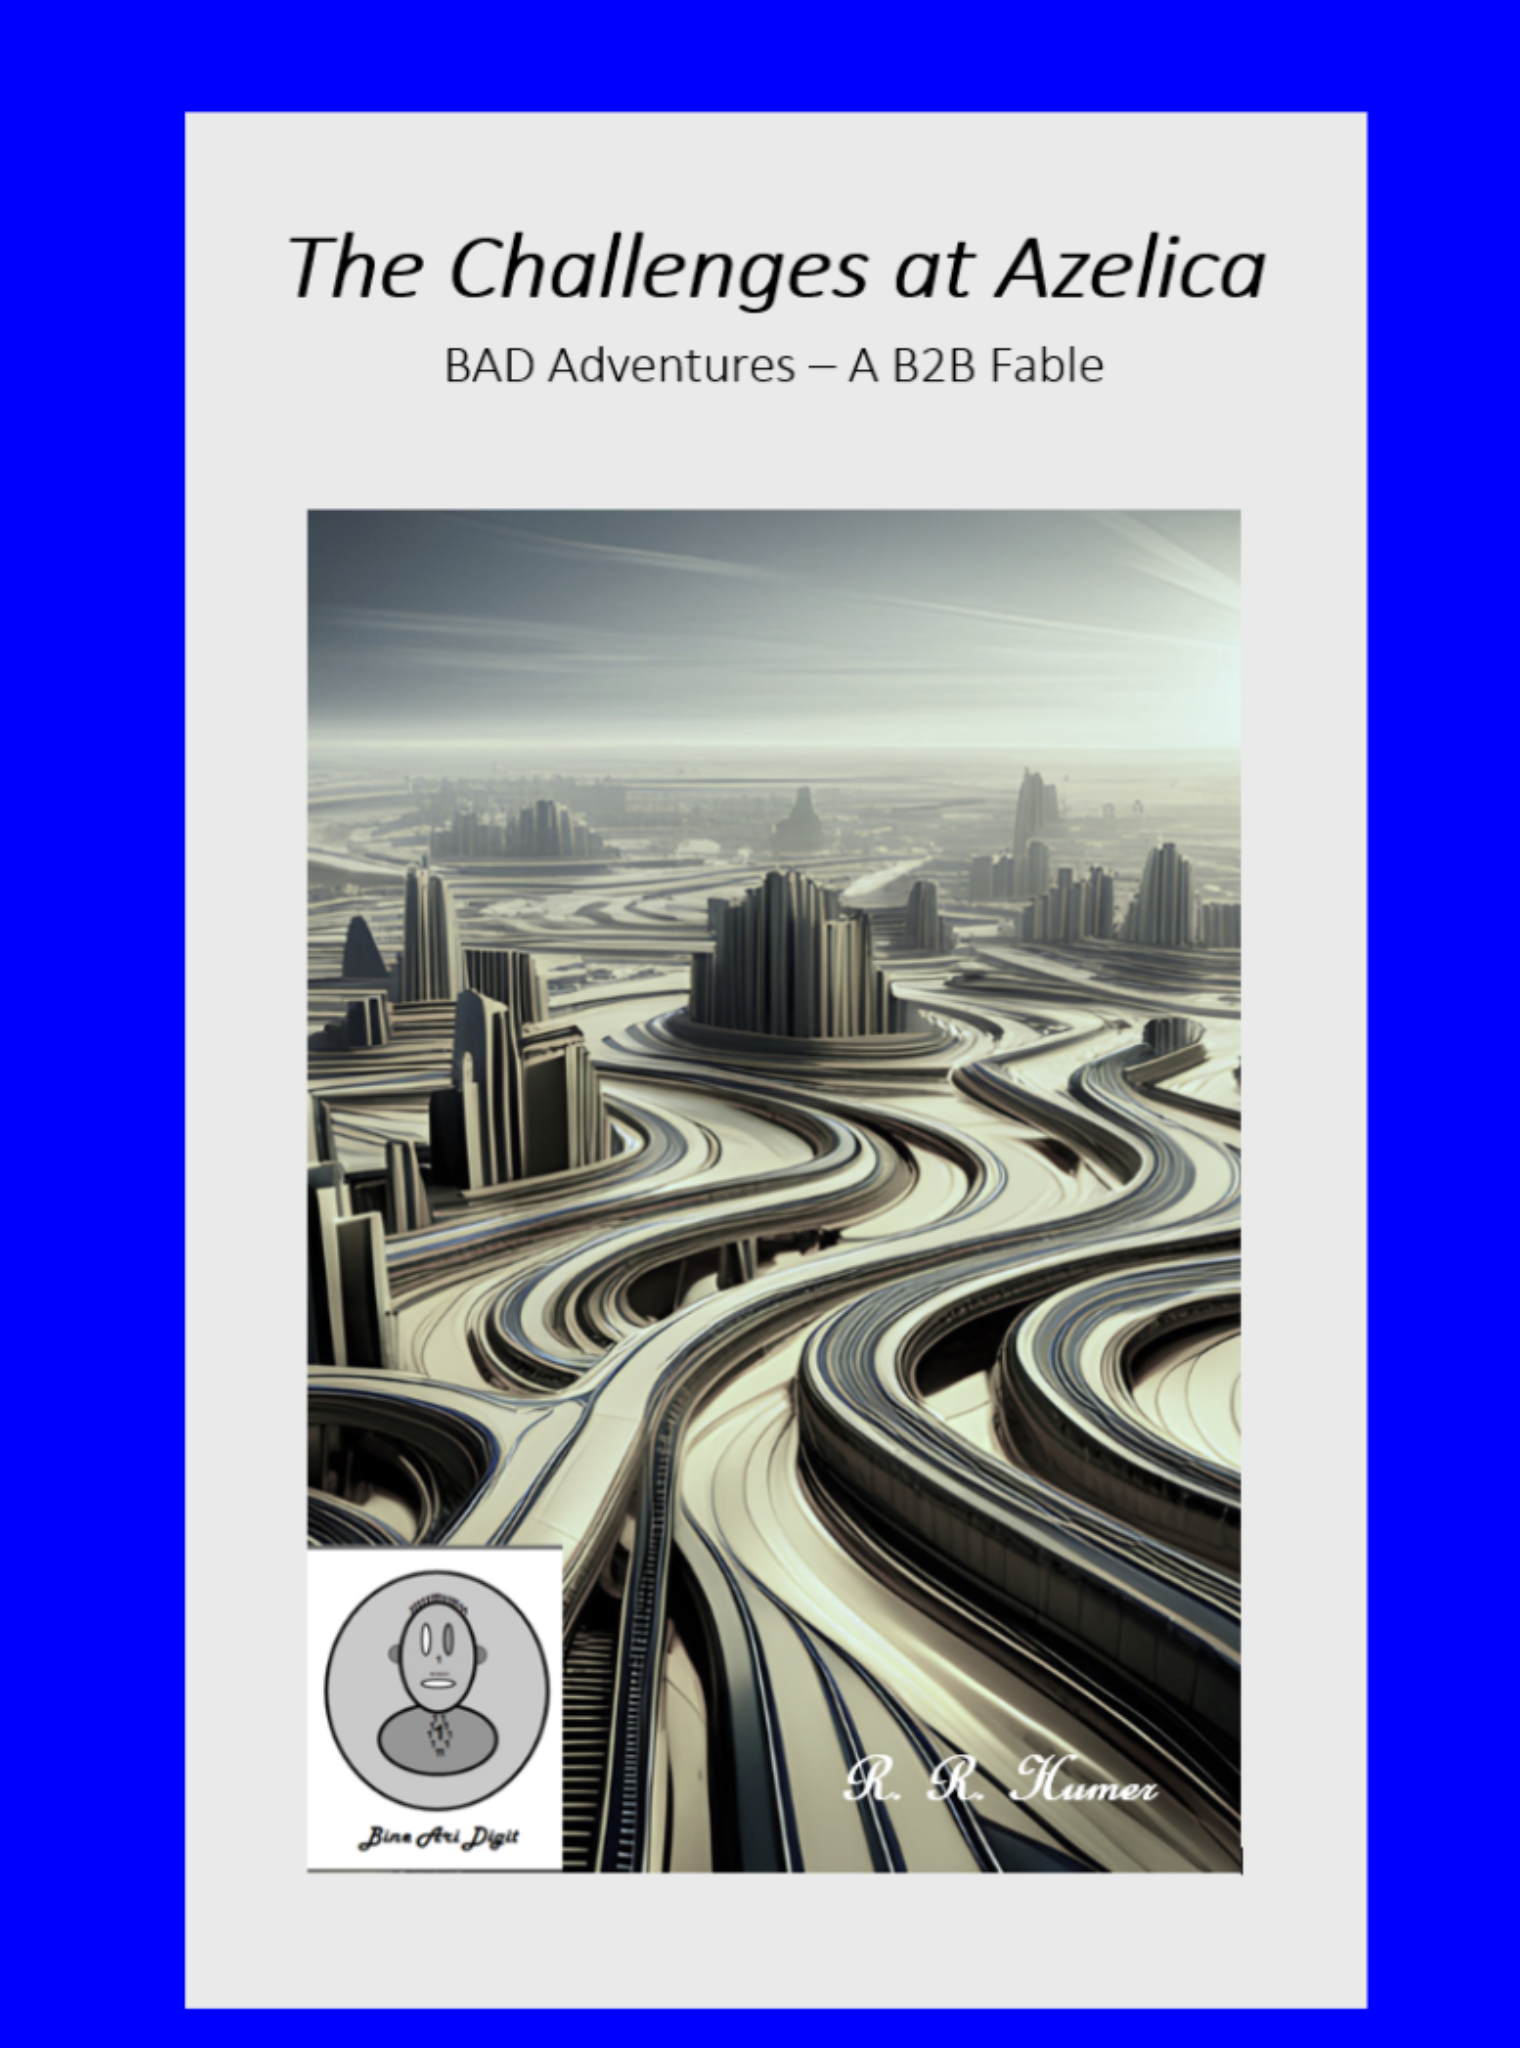
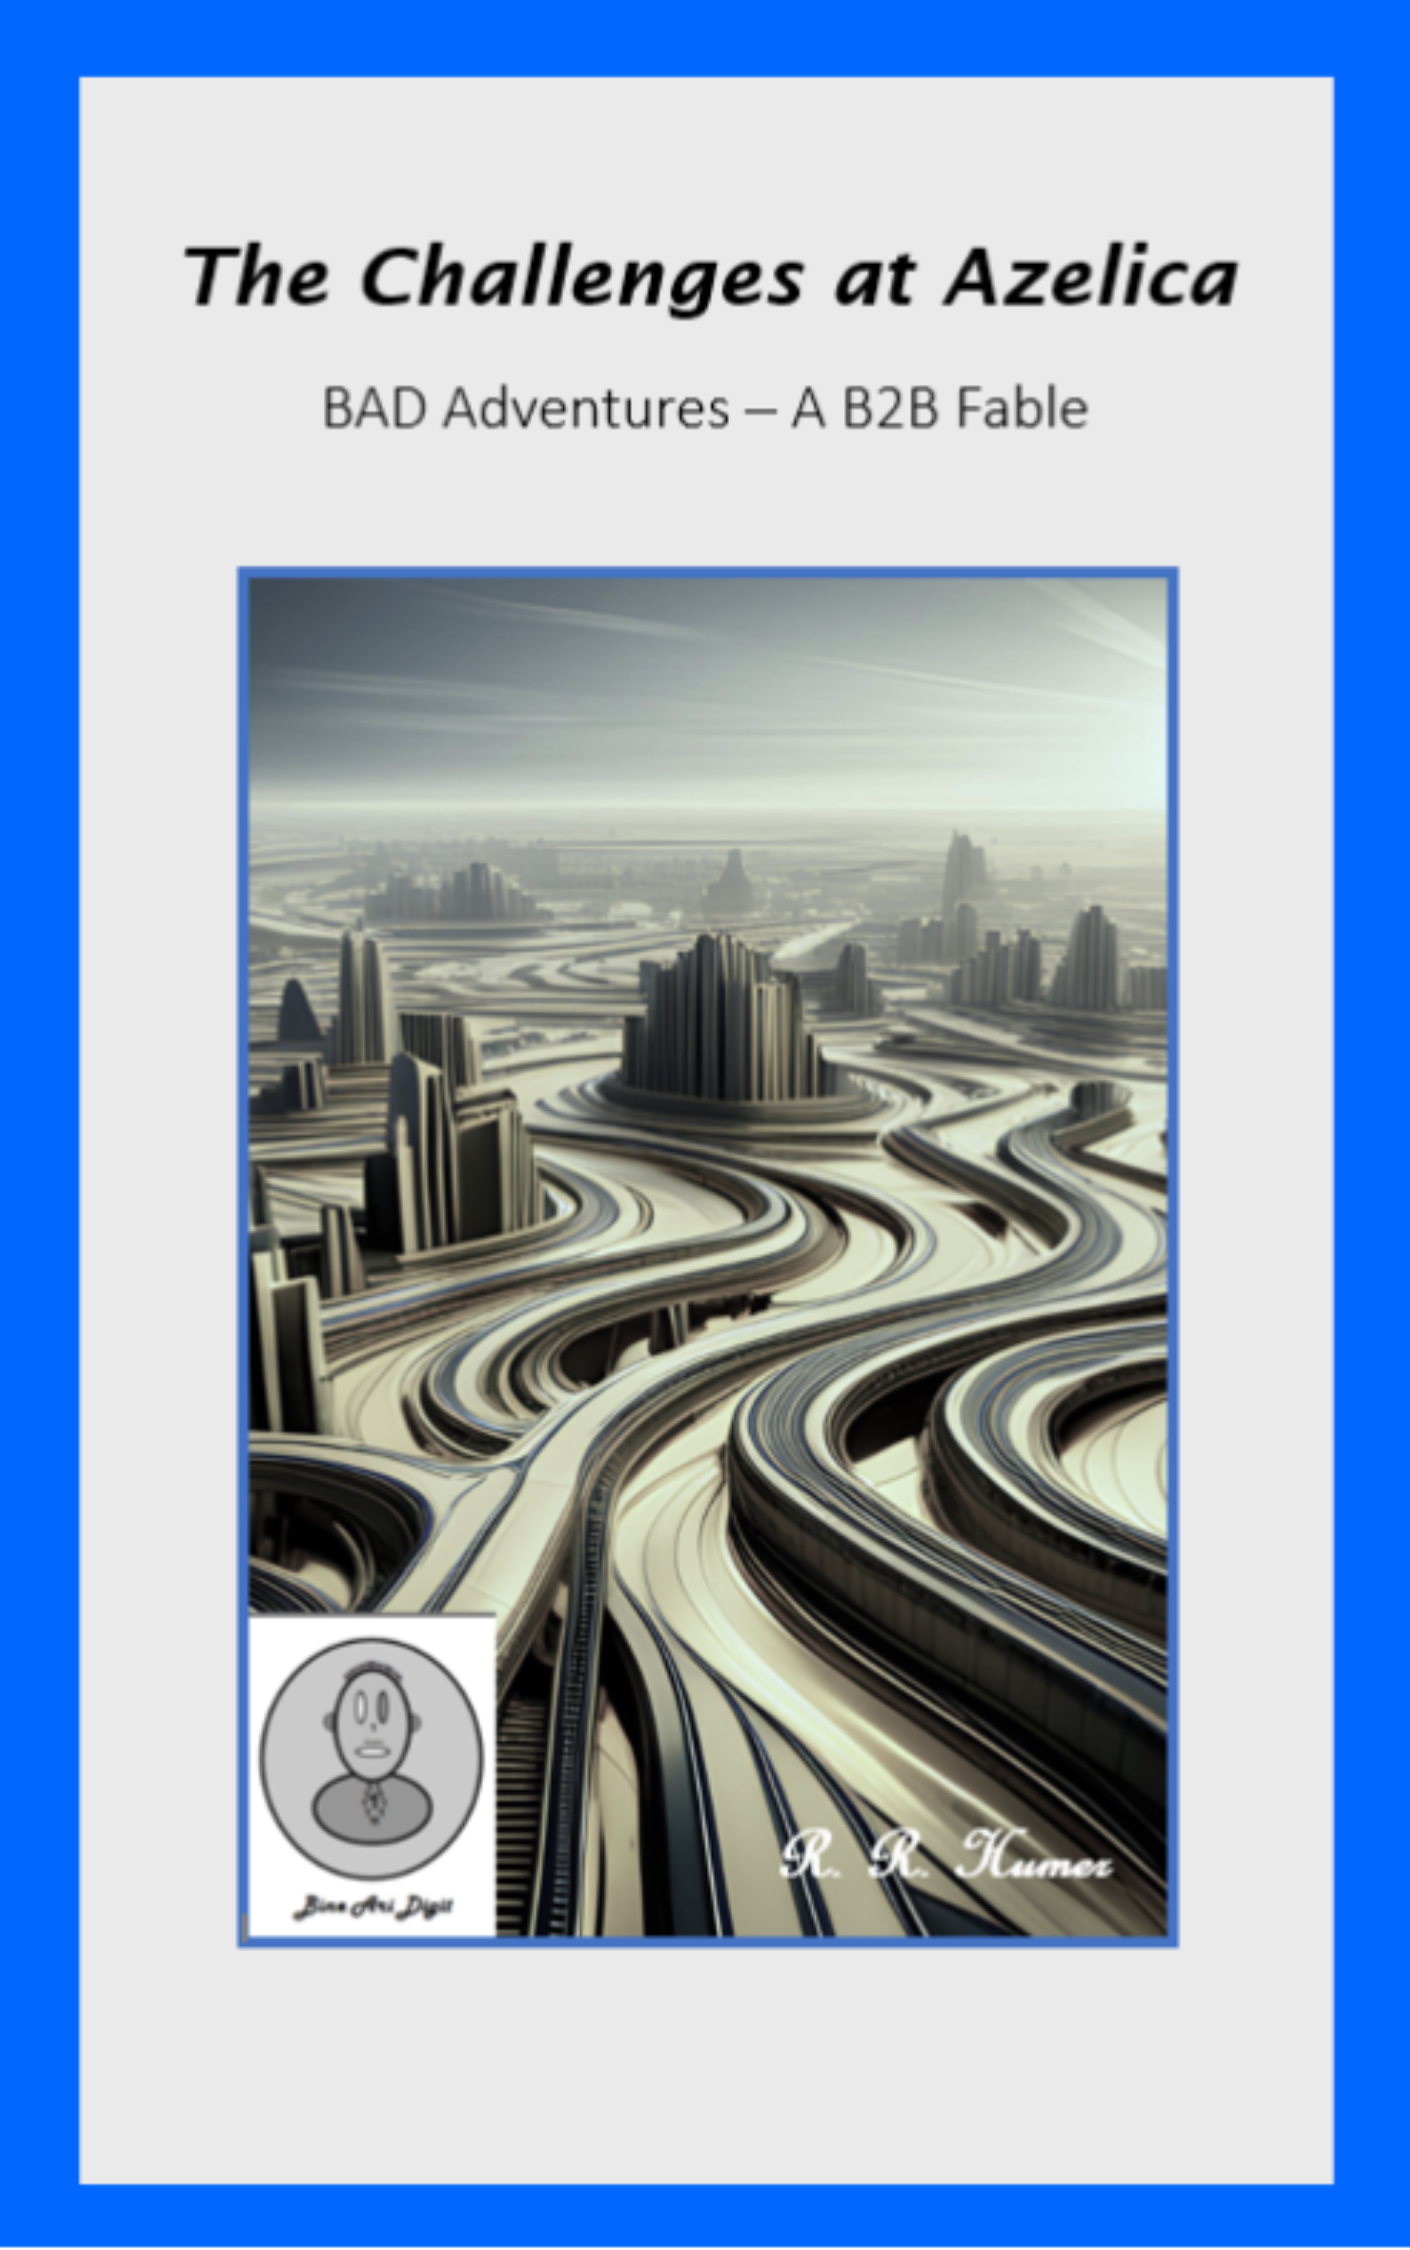
update all three book covers

diff --git a/src/components/BookSection.jsx b/src/components/BookSection.jsx
@@ -1,7 +1,7 @@
 import bookCover from '../assets/ptc-cover.jpg';
 import azelicaBookCover from '../assets/azelica-cover.png';
 import sunblastBookCover from '../assets/sunblast-cover.png';
-import schooldaysBookCover from '../assets/schooldays-cover.jpg';
+import belmonticaBookCover from '../assets/belmontica-cover.png';
 import exploitsBookCover from '../assets/exploits-cover.jpg';
 import amazonLogo from '../assets/amzn-logo.svg';
 import ReactGA from "react-ga4";
@@ -79,7 +79,7 @@ export const BookSection = () => {
                             "Radical career changes can lead to satisfying outcomes. Ari has joined Mountain Vista, a boutique consulting company. His initial client, Sunblast Innovations, will test his skills and abilities in helping them find success."
                             //"Now a consultant at Mountain Vista, Ari’s first project takes him to Sunblast Innovations, where he must steer the company through strategic and operational challenges."
                         },
-                        { title: "Book 3: School Days", img: schooldaysBookCover, link: "https://www.amazon.com/School-Days-Adventures-Fable-Digit-ebook/dp/B0DQ1V8P5V", description:
+                        { title: "Book 3: School Days", img: belmonticaBookCover, link: "https://www.amazon.com/School-Days-Adventures-Fable-Digit-ebook/dp/B0DQ1V8P5V", description:
                             "Ari has fond remembrances of his college days. However, being a student has not prepared him for how significantly strategic changes will impact Belmontica College, his next consulting assignment."
                             //"Ari’s next challenge leads him to Belmontica College, where he works with faculty and staff to enhance academic effectiveness while tackling unexpected institutional crises."
                         }
